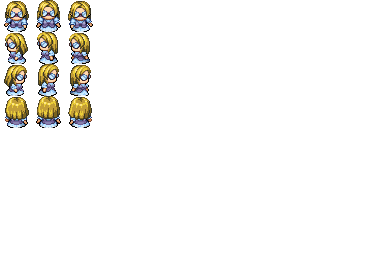
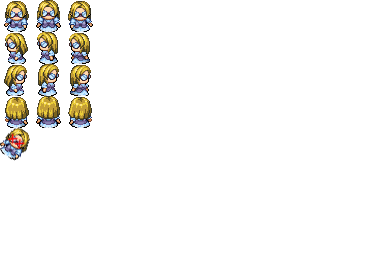
feat(agile-game): add DeadPlayer and improve player death; navigate to GameOverScene

Changed region(s): [[0.0, 0.5, 0.0938, 0.625]]

diff --git a/src/test/player.spec.ts b/src/test/player.spec.ts
@@ -19,8 +19,8 @@ describe('Player', () => {
     it('should be named Player', () => {
         expect(player.name).to.be.eq('Player');
     });
-    it('should start with katie_south as the sprite', () => {
-        expect(player.sprite).to.deep.eq(alives['katie_south'].sprite);
+    it('should start with player-south as the sprite', () => {
+        expect(player.sprite).to.deep.eq(alives['player-south'].sprite);
     });
 
     describe('.tick', () => {
@@ -288,7 +288,7 @@ describe('Player', () => {
                 player.tick(.02);
                 expect(player.sprite).to.deep.eq(sprite);
             });
-            it('should change the sprite to katie_north if the player is moving north', () => {
+            it('should change the sprite to player-north if the player is moving north', () => {
                 player.addToScene(<any>{
                     game: {
                         eventQueue: new MockEventQueue('ArrowUp')
@@ -297,9 +297,9 @@ describe('Player', () => {
                 });
                 player.sprite = <any>'I like chocolate milk!';
                 player.tick(.02);
-                expect(player.sprite).to.deep.eq(alives['katie_north'].sprite);
+                expect(player.sprite).to.deep.eq(alives['player-north'].sprite);
             });
-            it('should change the sprite to katie_south if the player is moving south', () => {
+            it('should change the sprite to player-south if the player is moving south', () => {
                 player.addToScene(<any>{
                     game: {
                         eventQueue: new MockEventQueue('ArrowDown')
@@ -308,9 +308,9 @@ describe('Player', () => {
                 });
                 player.sprite = <any>'I like chocolate milk!';
                 player.tick(.02);
-                expect(player.sprite).to.deep.eq(alives['katie_south'].sprite);
+                expect(player.sprite).to.deep.eq(alives['player-south'].sprite);
             });
-            it('should change the sprite to katie_east if the player is moving east', () => {
+            it('should change the sprite to player-east if the player is moving east', () => {
                 player.addToScene(<any>{
                     game: {
                         eventQueue: new MockEventQueue('ArrowRight')
@@ -319,9 +319,9 @@ describe('Player', () => {
                 });
                 player.sprite = <any>'I like chocolate milk!';
                 player.tick(.02);
-                expect(player.sprite).to.deep.eq(alives['katie_east'].sprite);
+                expect(player.sprite).to.deep.eq(alives['player-east'].sprite);
             });
-            it('should change the sprite to katie_west if the player is moving west', () => {
+            it('should change the sprite to player-west if the player is moving west', () => {
                 player.addToScene(<any>{
                     game: {
                         eventQueue: new MockEventQueue('ArrowLeft')
@@ -330,7 +330,7 @@ describe('Player', () => {
                 });
                 player.sprite = <any>'I like chocolate milk!';
                 player.tick(.02);
-                expect(player.sprite).to.deep.eq(alives['katie_west'].sprite);
+                expect(player.sprite).to.deep.eq(alives['player-west'].sprite);
             });
             it('should set animationSpeed to 0 if the player is not moving', () => {
                 player.addToScene(<any>{

diff --git a/src/player.ts b/src/player.ts
@@ -1,6 +1,7 @@
 import { World } from './world';
 import { WorldTile, TILE_SIZE } from './dbs/tile-db';
 import { OverworldScene } from './scenes/overworld-scene';
+import { DeadPlayer } from './dead-player';
 import { ResourceLoader, Game, Entity, EntityOptions, GameEvent, fmod, GameScene, clamp } from './engine';
 import { alives } from './dbs/alive-db';
 import { pauseWithGame } from './utils/pause-with-game';
@@ -13,12 +14,19 @@ const CLOSE_ENOUGH: number = 3.0;
 export class Player extends Entity {
     constructor(opts: EntityOptions = { maxHealth: 10 }) {
         super("Player", opts);
-        if (!this.sprite) this.sprite = alives['katie_south'].sprite;
+        if (!this.sprite) this.sprite = alives['player-south'].sprite;
     }
 
     addToScene(scene: GameScene) {
         super.addToScene(scene);
         pauseWithGame(this);
+    }
+
+    handleEvent(evt: GameEvent) {
+        if (evt.type == 'mouseWheel') {
+            let scale = Math.pow(2, -clamp(evt.delta, -1, 1) / 7);
+            this.game.scene.camera.zoomScale *= scale;
+        }
     }
 
     tick(delta: number) {
@@ -48,10 +56,10 @@ export class Player extends Entity {
         }
 
         this.animationSpeed = this.speed > 0 ? .2 : 0;
-        if (this.hspeed > 0) this.sprite = alives['katie_east'].sprite;
-        else if (this.hspeed < 0) this.sprite = alives['katie_west'].sprite;
-        else if (this.vspeed > 0) this.sprite = alives['katie_south'].sprite;
-        else if (this.vspeed < 0) this.sprite = alives['katie_north'].sprite;
+        if (this.hspeed > 0) this.sprite = alives['player-east'].sprite;
+        else if (this.hspeed < 0) this.sprite = alives['player-west'].sprite;
+        else if (this.vspeed > 0) this.sprite = alives['player-south'].sprite;
+        else if (this.vspeed < 0) this.sprite = alives['player-north'].sprite;
 
         let nextX: number = this.x + delta * this.hspeed;
         let nextY: number = this.y + delta * this.vspeed;
@@ -97,10 +105,11 @@ export class Player extends Entity {
         super.tick(delta);
     }
 
-    handleEvent(evt: GameEvent) {
-        if (evt.type == 'mouseWheel') {
-            let scale = Math.pow(2, -clamp(evt.delta, -1, 1) / 7);
-            this.game.scene.camera.zoomScale *= scale;
-        }
+    kill() {
+        this.scene.addObject(new DeadPlayer({
+            x: this.x,
+            y: this.y
+        }));
+        super.kill();
     }
 }

diff --git a/src/dbs/alive-db.ts b/src/dbs/alive-db.ts
@@ -6,7 +6,7 @@ export interface Alive {
 
 export let alives: { [name: string]: Alive } =
     {
-        katie_south: {
+        'player-south': {
             sprite: {
                 src: 'images/Alive/Katie.png',
                 tileset: { width: 32, height: 32 },
@@ -18,7 +18,7 @@ export let alives: { [name: string]: Alive } =
                 ]
             }
         },
-        katie_west: {
+        'player-west': {
             sprite: {
                 src: 'images/Alive/Katie.png',
                 tileset: { width: 32, height: 32 },
@@ -30,7 +30,7 @@ export let alives: { [name: string]: Alive } =
                 ]
             }
         },
-        katie_east: {
+        'player-east': {
             sprite: {
                 src: 'images/Alive/Katie.png',
                 tileset: { width: 32, height: 32 },
@@ -42,7 +42,7 @@ export let alives: { [name: string]: Alive } =
                 ]
             }
         },
-        katie_north: {
+        'player-north': {
             sprite: {
                 src: 'images/Alive/Katie.png',
                 tileset: { width: 32, height: 32 },
@@ -52,6 +52,12 @@ export let alives: { [name: string]: Alive } =
                     { tilex: 2, tiley: 3 },
                     { tilex: 1, tiley: 3 }
                 ]
+            }
+        },
+        'dead-player': {
+            sprite: {
+                src: 'images/Alive/Katie.png',
+                tileset: { width: 32, height: 32, tilex: 0, tiley: 4 }
             }
         }
     };

diff --git a/src/dead-player.ts b/src/dead-player.ts
@@ -1,0 +1,18 @@
+import { GameObject, GameObjectOptions } from './engine';
+import { alives } from './dbs/alive-db';
+import { GameOverScene } from './scenes/game-over-scene';
+
+export class DeadPlayer extends GameObject {
+    constructor(opts: GameObjectOptions = {}) {
+        super('DeadPlayer', opts);
+        if (!this.sprite) this.sprite = alives['dead-player'].sprite;
+    }
+
+    private timeUntilGameOver = 2;
+
+    tick(delta: number) {
+        super.tick(delta);
+        this.timeUntilGameOver -= delta;
+        if (this.timeUntilGameOver <= 0) this.game.changeScene(new GameOverScene());
+    }
+}

diff --git a/src/scenes/game-over-scene.ts b/src/scenes/game-over-scene.ts
@@ -1,7 +1,7 @@
 import { GameScene } from '../engine';
 import { MenuGuiObject } from '../menu-gui-object';
 
-export class TitleScene extends GameScene {
+export class GameOverScene extends GameScene {
     constructor() {
         super();
     }
